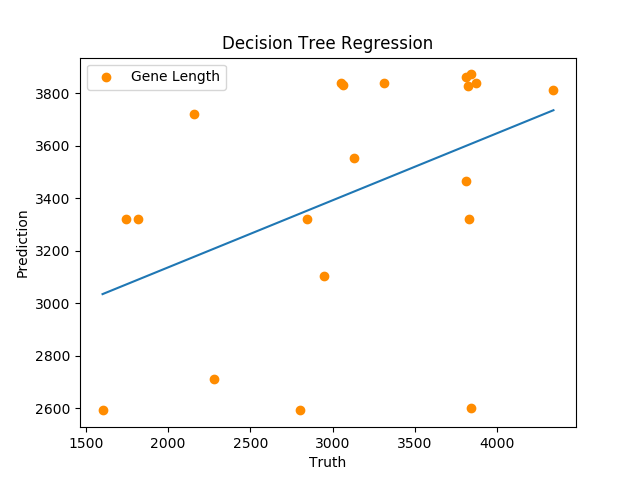
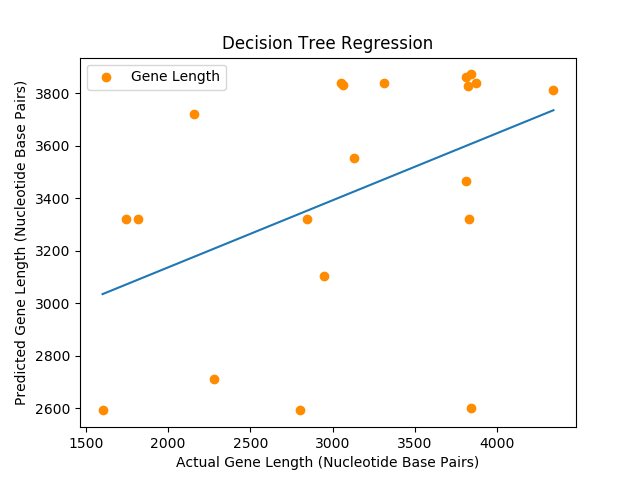
changed label names

diff --git a/project2.py b/project2.py
@@ -275,8 +275,8 @@ def plotDTR(expected, predicted):
     plt.plot(np.unique(expected), np.poly1d(np.polyfit(expected, predicted, 1))(np.unique(expected)))
 
 
-    plt.xlabel("Truth")
-    plt.ylabel("Prediction")
+    plt.xlabel("Actual Gene Length (Nucleotide Base Pairs)")
+    plt.ylabel("Predicted Gene Length (Nucleotide Base Pairs)")
     plt.title("Decision Tree Regression")
     plt.legend()
 
